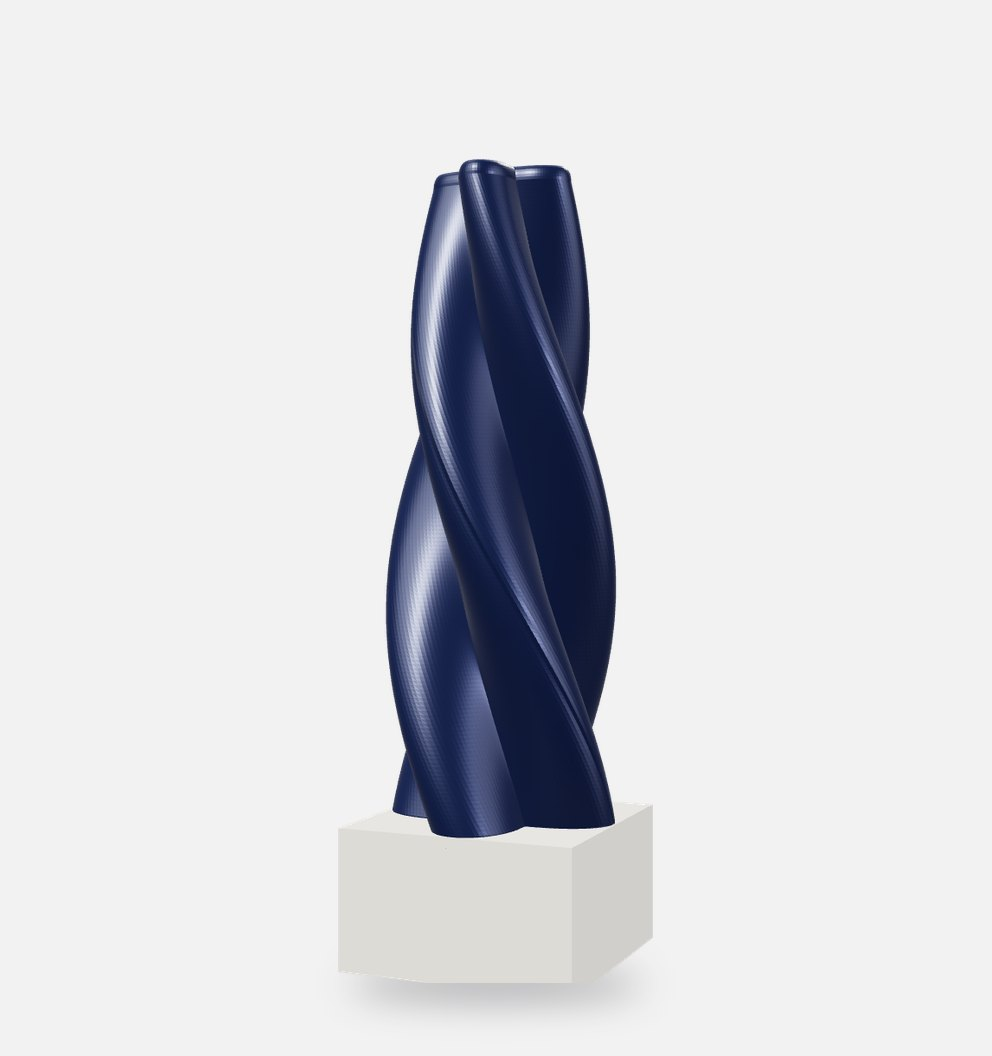
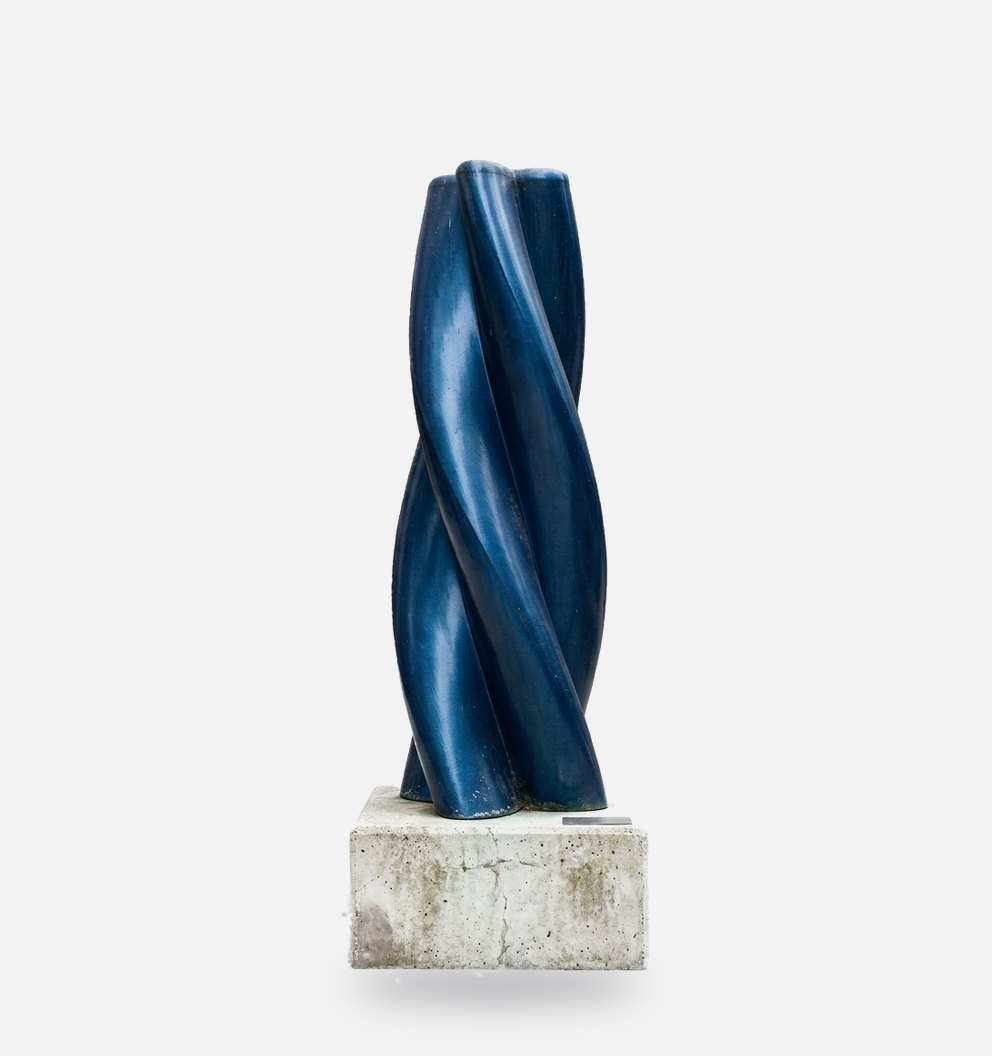
Home, Art: the new photographed pieces in the slider and the hero: the twisted blue sculpture on concrete, the sunset-over-sea canvas and the blue glass vase with branches; cut out with the site's own engine (the canvas by its edges), on the grey ground with lit copies
Claude-Session: https://claude.ai/code/session_01KCijX5vyfJFuXmjiHwZCgW

Changed region(s): [[0.3438, 0.125, 0.6562, 0.9375]]

diff --git a/feed.html b/feed.html
@@ -558,9 +558,9 @@
                     <button type="button" data-g="kids" aria-label="Kids"><img src="assets/hero/layer-kids.webp?v=2" alt="" decoding="async"></button>
                     <button type="button" data-g="women" aria-label="Women"><img src="assets/hero/layer-women.webp?v=2" alt="" decoding="async"></button>
                     <!-- Art: a canvas, a sculpture and a piece for the home, in the same navy. -->
-                    <button type="button" class="is-art" data-g="home" aria-label="Home Design"><img src="assets/hero/layer-home.webp?v=1" alt="" decoding="async"><img class="gs-lit" src="assets/hero/layer-home-light.webp?v=1" alt="" decoding="async"></button>
-                    <button type="button" class="is-art" data-g="canvas" aria-label="Canvas"><img src="assets/hero/layer-canvas.webp?v=1" alt="" decoding="async"><img class="gs-lit" src="assets/hero/layer-canvas-light.webp?v=1" alt="" decoding="async"></button>
-                    <button type="button" class="is-art" data-g="sculpture" aria-label="Sculpture"><img src="assets/hero/layer-sculpture.webp?v=2" alt="" decoding="async"><img class="gs-lit" src="assets/hero/layer-sculpture-light.webp?v=2" alt="" decoding="async"></button>
+                    <button type="button" class="is-art" data-g="home" aria-label="Home Design"><img src="assets/hero/layer-home.webp?v=3" alt="" decoding="async"><img class="gs-lit" src="assets/hero/layer-home-light.webp?v=4" alt="" decoding="async"></button>
+                    <button type="button" class="is-art" data-g="canvas" aria-label="Canvas"><img src="assets/hero/layer-canvas.webp?v=3" alt="" decoding="async"><img class="gs-lit" src="assets/hero/layer-canvas-light.webp?v=3" alt="" decoding="async"></button>
+                    <button type="button" class="is-art" data-g="sculpture" aria-label="Sculpture"><img src="assets/hero/layer-sculpture.webp?v=3" alt="" decoding="async"><img class="gs-lit" src="assets/hero/layer-sculpture-light.webp?v=3" alt="" decoding="async"></button>
                 </div>
             </div>
             <div class="hm-band" id="hmBand" aria-label="Shortcuts">
@@ -824,9 +824,9 @@
         ];
         // In Art mode the deck shows the art categories instead of the genders.
         var CATS_ART = [
-            { g: 'canvas',    name: 'Canvas',      img: 'assets/hero/art-canvas.jpg?v=1',    lit: 'assets/hero/art-canvas-light.jpg?v=1',    desc: 'Paintings, works on paper and photographs: everything that hangs as a picture' },
-            { g: 'sculpture', name: 'Sculpture',   img: 'assets/hero/art-sculpture.jpg?v=2', lit: 'assets/hero/art-sculpture-light.jpg?v=2', desc: 'Sculptures, carvings and every piece of art that isn\u2019t a picture' },
-            { g: 'home',      name: 'Home Design', img: 'assets/hero/art-home.jpg?v=1',      lit: 'assets/hero/art-home-light.jpg?v=1',      desc: 'Pieces made for the home, picked on interior designers\u2019 recommendations' }
+            { g: 'canvas',    name: 'Canvas',      img: 'assets/hero/art-canvas.jpg?v=3',    lit: 'assets/hero/art-canvas-light.jpg?v=3',    desc: 'Paintings, works on paper and photographs: everything that hangs as a picture' },
+            { g: 'sculpture', name: 'Sculpture',   img: 'assets/hero/art-sculpture.jpg?v=3', lit: 'assets/hero/art-sculpture-light.jpg?v=3', desc: 'Sculptures, carvings and every piece of art that isn\u2019t a picture' },
+            { g: 'home',      name: 'Home Design', img: 'assets/hero/art-home.jpg?v=3',      lit: 'assets/hero/art-home-light.jpg?v=4',      desc: 'Pieces made for the home, picked on interior designers\u2019 recommendations' }
         ];
         function modeCats() { return (state.mode === 'art') ? CATS_ART : CATS; }
         // The deck's starting card: Men in Clothing, the first category in Art.
@@ -1823,11 +1823,11 @@
     .hm-gstrip[data-mode="art"] .is-art { display: block; }
     .hm-gstrip[data-mode="art"] button:not(.is-art) { display: none; }
     .hm-gstrip [data-g="home"]      { left: 66%; width: 31%; bottom: -40px; --r: 8deg;  z-index: 1;
-        --m: url(assets/hero/layer-home.webp?v=1); --b: 46px; }
+        --m: url(assets/hero/layer-home.webp?v=3); --b: 46px; }
     .hm-gstrip [data-g="canvas"]    { left: 0%;  width: 50%; bottom: -70px; --r: -9deg; z-index: 2;
-        --m: url(assets/hero/layer-canvas.webp?v=1); --b: 76px; }
+        --m: url(assets/hero/layer-canvas.webp?v=3); --b: 76px; }
     .hm-gstrip [data-g="sculpture"] { left: 37%; width: 31%; bottom: -84px; --r: 3deg;  z-index: 3;
-        --m: url(assets/hero/layer-sculpture.webp?v=2); --b: 92px; }
+        --m: url(assets/hero/layer-sculpture.webp?v=3); --b: 92px; }
     .hm-gstrip.is-enter [data-g="home"]      { animation-delay: .15s; }
     .hm-gstrip.is-enter [data-g="canvas"]    { animation-delay: .3s; }
     .hm-gstrip.is-enter [data-g="sculpture"] { animation-delay: .45s; }
